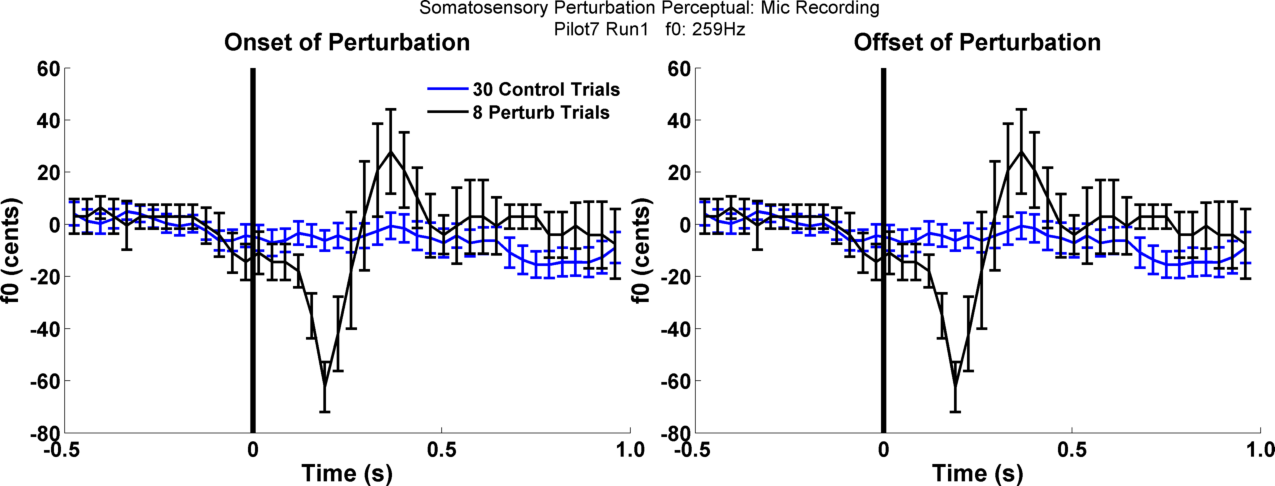
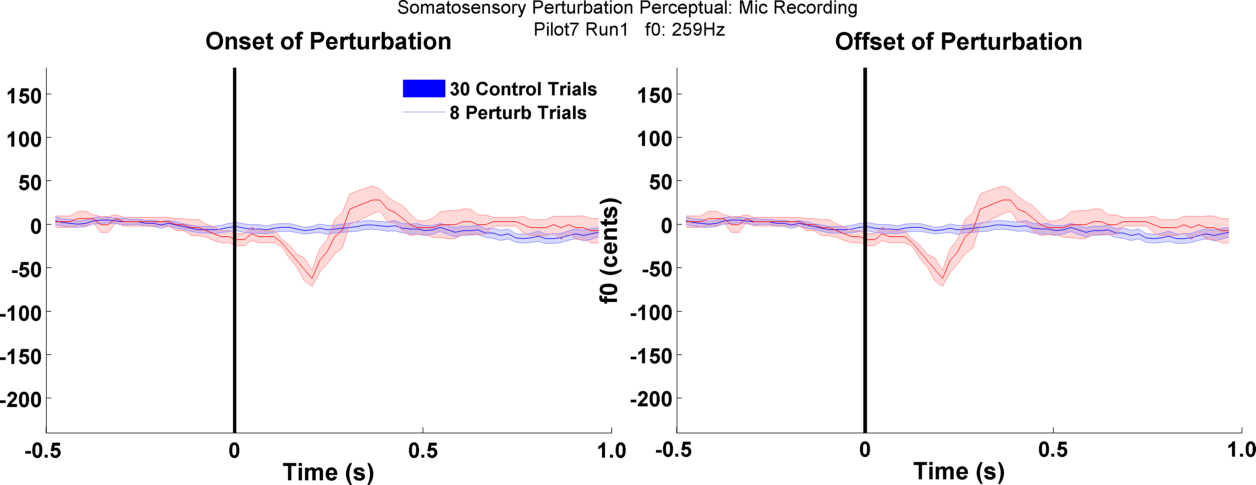
Fixing some shaded plots
Fixing how shaded plots are shown and saved on my desktop PC

Changed region(s): [[0.0, 0.0619, 0.9936, 1.0], [0.3105, 0.0, 0.7142, 0.0928], [0.9936, 0.8969, 1.0, 0.9588]]

diff --git a/Analysis/SFPerturb_Analysis.m b/Analysis/SFPerturb_Analysis.m
@@ -20,7 +20,7 @@ PltTgl.InterRun_Force    = 1;
 
 AVar.project      = 'Dissociating-Role-of-Feedback-in-Voice-Motor-Control';
 AVar.expTypes     = {'Somatosensory Perturbation_Perceptual', 'Auditory Perturbation_Perceptual'};
-AVar.expInd       = 2; %Either 1 or 2
+AVar.expInd       = 1; %Either 1 or 2
 AVar.curExp       = AVar.expTypes{AVar.expInd};
 AVar.participants = {'Pilot7'}; %List of multiple participants
 AVar.partiInd     = 1;          %Can select multiple subjs if desired.
@@ -31,9 +31,9 @@ AVar.curRecording = [];
 dirs = sfDirs(AVar.project);
 % dirs.saveFileSuffix = '_offlinePSR';
 
-AVar.anaWinLen   = 0.01; %analysis window length in seconds
+AVar.anaWinLen   = 0.05; %analysis window length in seconds
 AVar.anaWinLenP  = [];    %analysis window length in points
-AVar.pOverlap    = 0.50;  %window overlap percentage as decimial
+AVar.pOverlap    = 0.60;  %window overlap percentage as decimial
 
 AVar.preEveLen = 0.5; %Amount of time in seconds of observation period before event (onset/offset)
 AVar.posEveLen = 1.0; %Amount of time in seconds of observation period after event (onset/offset)
@@ -143,7 +143,7 @@ for i = AVar.partiInd
                 %Start of Pert
                 Trialf0Raw_St = signalFrequencyAnalysis(mic, head, trigsA(k,1), fs, AVar);
                 %Stop of Pert
-                Trialf0Raw_Sp = signalFrequencyAnalysis(mic, head, trigsA(k,2), fs, AVar); %When experiment is fixed make this 2!!
+                Trialf0Raw_Sp = signalFrequencyAnalysis(mic, head, trigsA(k,1), fs, AVar); %When experiment is fixed make this 2!!
                 
                 prePertInd = AVar.anaTimeVec < 0.5;      % Grab the first 0.5s, should be no stimulus
                 f0b = mean(Trialf0Raw_St(prePertInd, 1)); % Baseline fundamental frequency of mic data

diff --git a/Presentation/sfDirs.m b/Presentation/sfDirs.m
@@ -38,10 +38,10 @@ switch host
         dirs.RecData        = fullfile('E:\Documents\DATA', project); % Dir w/ raw datafiles  
         dirs.SavData        = fullfile('W:\Experiments\', project);
         
-        dirs.Prelim         = fullfile('E:\Users\djsmith\Documents\MATLAB', project, 'Presentation\PrelimFiles'); %Dir for project specific helper files
-        dirs.Code           = fullfile('E:\Users\djsmith\Documents\MATLAB', project, 'Analysis');           % Dir w/ data analysis Code
-        dirs.Results        = fullfile('E:\Users\djsmith\Documents\MATLAB', project, 'Results');            % Dir to output analyzed datafiles and figures to
-        dirs.helpers        = 'E:\Users\djsmith\Documents\MATLAB\MATLAB-Toolboxes';                         % Dir to multiple function used for general analysis
+        dirs.Prelim         = fullfile('E:\Documents\MATLAB', project, 'Presentation\PrelimFiles'); %Dir for project specific helper files
+        dirs.Code           = fullfile('E:\Documents\MATLAB', project, 'Analysis');           % Dir w/ data analysis Code
+        dirs.Results        = fullfile('E:\Documents\MATLAB', project, 'Results');            % Dir to output analyzed datafiles and figures to
+        dirs.helpers        = 'E:\Documents\MATLAB\MATLAB-Toolboxes';                         % Dir to multiple function used for general analysis
         
         dirs.RecFileDir     = '';
         dirs.RecWaveDir     = '';

diff --git a/Analysis/drawForceSensorSignal.m b/Analysis/drawForceSensorSignal.m
@@ -15,7 +15,7 @@ ha = tight_subplot(1,2,[0.1 0.05],[0.12 0.15],[0.05 0.03]);
 axes(ha(1))
 shadedErrorBar(time, meanTrialForce_St(:,1,2), meanTrialForce_St(:,2,2), 'b', 1) %Collar Sensor, Perturbed Trials
 hold on
-shadedErrorBar(time, meanTrialForce_St(:,3,2), meanTrialForce_St(:,4,2), 'r', 0) %Neck Sensor, Perturbed Trials
+shadedErrorBar(time, meanTrialForce_St(:,3,2), meanTrialForce_St(:,4,2), 'r', 1) %Neck Sensor, Perturbed Trials
 hold on
 plot(dottedStartx, dottedy,'k','LineWidth',4)
 xlabel('Time (s)', 'FontSize', 18, 'FontWeight', 'bold'); ylabel('Voltage (V)', 'FontSize', 18, 'FontWeight', 'bold')
@@ -34,7 +34,7 @@ set(pltlgd, 'box', 'off',...
 axes(ha(2))
 shadedErrorBar(time, meanTrialForce_Sp(:,1,2), meanTrialForce_Sp(:,2,2), 'b', 1) %Collar Sensor, Perturbed Trials
 hold on
-shadedErrorBar(time, meanTrialForce_Sp(:,3,2), meanTrialForce_Sp(:,4,2), 'r', 0)%Neck Sensor, Perturbed Trials
+shadedErrorBar(time, meanTrialForce_Sp(:,3,2), meanTrialForce_Sp(:,4,2), 'r', 1)%Neck Sensor, Perturbed Trials
 hold on
 plot(dottedStartx, dottedy,'k','LineWidth',4)
 xlabel('Time (s)', 'FontSize', 18, 'FontWeight', 'bold'); ylabel('Voltage (V)', 'FontSize', 18, 'FontWeight', 'bold')

diff --git a/Analysis/drawInterTrialf0.m b/Analysis/drawInterTrialf0.m
@@ -14,7 +14,7 @@ ha = tight_subplot(1,2,[0.1 0.05],[0.12 0.15],[0.05 0.03]);
 axes(ha(1))
 shadedErrorBar(time, meanTrialf0_St(:,1,1), meanTrialf0_St(:,2,1), 'b', 1) %Unperturbed
 hold on
-shadedErrorBar(time, meanTrialf0_St(:,1,2), meanTrialf0_St(:,2,2), 'r', 0) %Perturbed
+shadedErrorBar(time, meanTrialf0_St(:,1,2), meanTrialf0_St(:,2,2), 'r', 1) %Perturbed
 hold on
 plot(dottedStartx, dottedy,'k','LineWidth',4)
 xlabel('Time (s)', 'FontSize', 18, 'FontWeight', 'bold'); ylabel('f0 (cents)', 'FontSize', 18, 'FontWeight', 'bold')
@@ -31,7 +31,7 @@ l0 = legend([num2str(counts(1)) ' Control Trials'], [num2str(counts(2)) ' Pertur
 axes(ha(2))
 shadedErrorBar(time, meanTrialf0_Sp(:,1,1), meanTrialf0_Sp(:,2,1), 'b', 1)  %Unperturbed
 hold on
-shadedErrorBar(time, meanTrialf0_Sp(:,1,2), meanTrialf0_Sp(:,2,2), 'r', 0) %Perturbed
+shadedErrorBar(time, meanTrialf0_Sp(:,1,2), meanTrialf0_Sp(:,2,2), 'r', 1) %Perturbed
 hold on
 plot(dottedStartx, dottedy,'k','LineWidth',4)
 xlabel('Time (s)', 'FontSize', 18, 'FontWeight', 'bold'); ylabel('f0 (cents)', 'FontSize', 18, 'FontWeight', 'bold')

diff --git a/Analysis/drawInterTrialAudResp.m b/Analysis/drawInterTrialAudResp.m
@@ -12,7 +12,7 @@ dottedy = [-300 300];
 ha = tight_subplot(1,2,[0.1 0.05],[0.12 0.15],[0.05 0.03]);
 
 axes(ha(1))
-shadedErrorBar(time, meanTrialf0_St(:,1), meanTrialf0_St(:,2), 'b', 0) %Pertrubed Microphone
+shadedErrorBar(time, meanTrialf0_St(:,1), meanTrialf0_St(:,2), 'b', 1) %Pertrubed Microphone
 hold on
 shadedErrorBar(time, meanTrialf0_St(:,3), meanTrialf0_St(:,4), 'r', 1) %Perturbed Headphones
 hold on
@@ -29,7 +29,7 @@ set(gca,'XTickLabel',{'-0.5' '0' '0.5' '1.0'},...
 l0 = legend('Microphone', 'Headphones'); set(l0,'box', 'off','FontSize', 14, 'FontWeight', 'bold');
 
 axes(ha(2))
-shadedErrorBar(time, meanTrialf0_Sp(:,1), meanTrialf0_Sp(:,2), 'b', 0)  %Pertrubed Microphone
+shadedErrorBar(time, meanTrialf0_Sp(:,1), meanTrialf0_Sp(:,2), 'b', 1)  %Pertrubed Microphone
 hold on
 shadedErrorBar(time, meanTrialf0_Sp(:,3), meanTrialf0_Sp(:,4), 'r', 1) %Perturbed Headphones
 hold on
